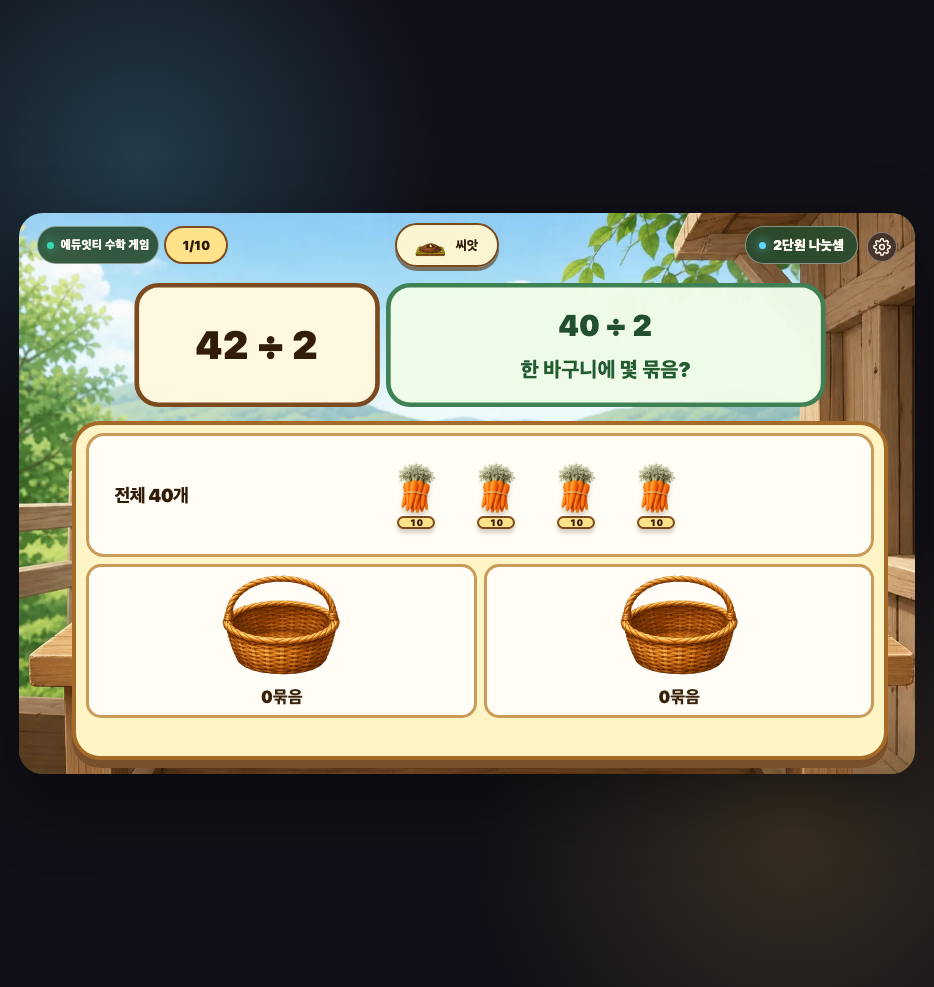
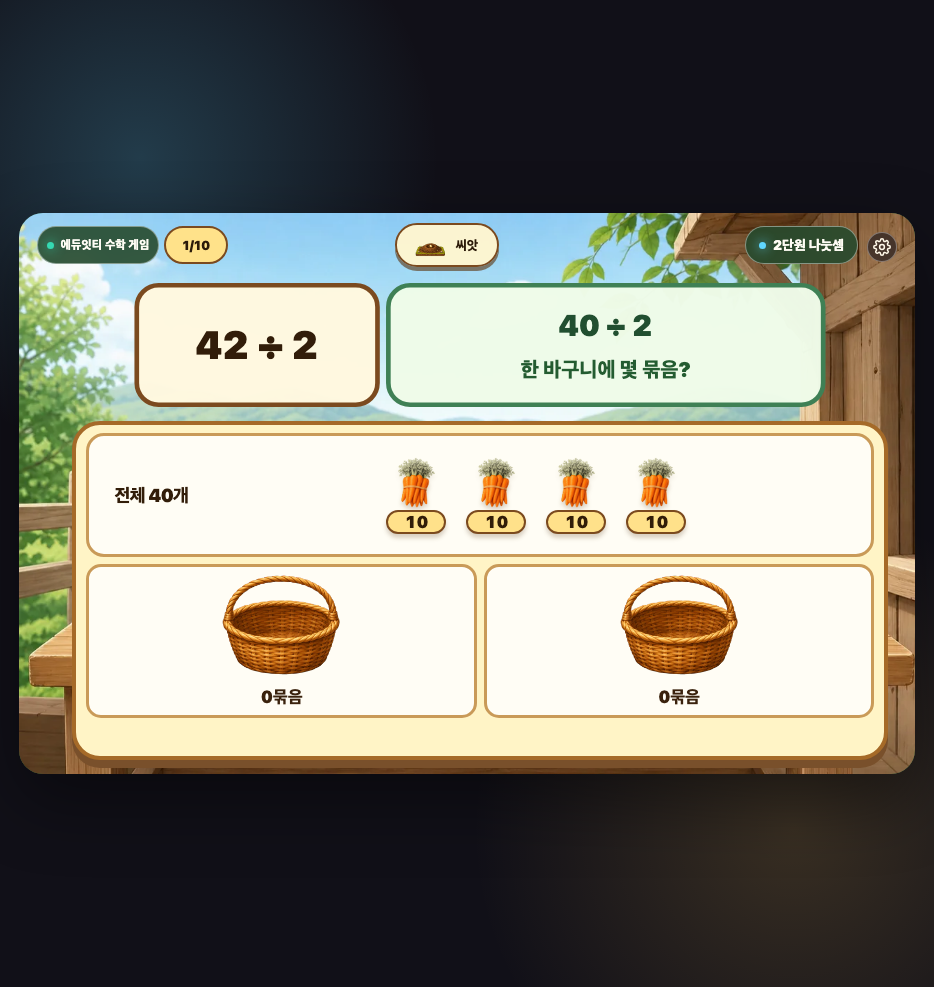
fix(mathmon): enlarge carrot bundle value labels

Changed region(s): [[0.4036, 0.4559, 0.7452, 0.5471]]

diff --git a/3-2-2-1-mathmon-divide-farm/index.html b/3-2-2-1-mathmon-divide-farm/index.html
@@ -1174,26 +1174,38 @@
 
     .game[data-workbench-type="place-value-farm"] .farm-share-source[data-unit-kind="bundle"]:is([data-unit-count="1"], [data-unit-count="2"], [data-unit-count="3"]) {
       --source-bundle-width: 112px;
-      --source-bundle-height: 108px;
+      --source-bundle-height: 118px;
       --source-bundle-gap: 24px;
+      --source-bundle-label-width: 64px;
+      --source-bundle-label-height: 26px;
+      --source-bundle-label-font: 1.12rem;
     }
 
     .game[data-workbench-type="place-value-farm"] .farm-share-source[data-unit-kind="bundle"]:is([data-unit-count="4"], [data-unit-count="5"]) {
       --source-bundle-width: 92px;
-      --source-bundle-height: 90px;
+      --source-bundle-height: 100px;
       --source-bundle-gap: 16px;
+      --source-bundle-label-width: 60px;
+      --source-bundle-label-height: 24px;
+      --source-bundle-label-font: 1.05rem;
     }
 
     .game[data-workbench-type="place-value-farm"] .farm-share-source[data-unit-kind="bundle"]:is([data-unit-count="6"], [data-unit-count="7"]) {
       --source-bundle-width: 76px;
-      --source-bundle-height: 74px;
+      --source-bundle-height: 84px;
       --source-bundle-gap: 10px;
+      --source-bundle-label-width: 56px;
+      --source-bundle-label-height: 23px;
+      --source-bundle-label-font: 1rem;
     }
 
     .game[data-workbench-type="place-value-farm"] .farm-share-source[data-unit-kind="bundle"]:is([data-unit-count="8"], [data-unit-count="9"], [data-unit-count="10"]) {
       --source-bundle-width: 62px;
-      --source-bundle-height: 61px;
+      --source-bundle-height: 75px;
       --source-bundle-gap: 6px;
+      --source-bundle-label-width: 52px;
+      --source-bundle-label-height: 22px;
+      --source-bundle-label-font: .95rem;
     }
 
     @media (max-width: 1100px) {
@@ -1208,25 +1220,25 @@
 
       .game[data-workbench-type="place-value-farm"] .farm-share-source[data-unit-kind="bundle"]:is([data-unit-count="1"], [data-unit-count="2"], [data-unit-count="3"]) {
         --source-bundle-width: 84px;
-        --source-bundle-height: 82px;
+        --source-bundle-height: 92px;
         --source-bundle-gap: 16px;
       }
 
       .game[data-workbench-type="place-value-farm"] .farm-share-source[data-unit-kind="bundle"]:is([data-unit-count="4"], [data-unit-count="5"]) {
         --source-bundle-width: 70px;
-        --source-bundle-height: 68px;
+        --source-bundle-height: 78px;
         --source-bundle-gap: 10px;
       }
 
       .game[data-workbench-type="place-value-farm"] .farm-share-source[data-unit-kind="bundle"]:is([data-unit-count="6"], [data-unit-count="7"]) {
         --source-bundle-width: 60px;
-        --source-bundle-height: 59px;
+        --source-bundle-height: 68px;
         --source-bundle-gap: 6px;
       }
 
       .game[data-workbench-type="place-value-farm"] .farm-share-source[data-unit-kind="bundle"]:is([data-unit-count="8"], [data-unit-count="9"], [data-unit-count="10"]) {
         --source-bundle-width: 52px;
-        --source-bundle-height: 51px;
+        --source-bundle-height: 62px;
         --source-bundle-gap: 4px;
       }
     }
@@ -2004,7 +2016,7 @@
     }
     .farm-produce-piece--bundle {
       width: 66px; height: 78px; color: #3b230b;
-      grid-template-rows: minmax(0, 1fr) 13px;
+      grid-template-rows: minmax(0, 1fr) 18px;
       align-items: stretch;
     }
     .farm-produce-art { width: 100%; height: 100%; display: block; object-fit: contain; pointer-events: none; user-select: none; }
@@ -2016,9 +2028,9 @@
     }
     .farm-produce-piece--bundle .farm-produce-value {
       position: static; grid-row: 2; justify-self: center; align-self: stretch; transform: none;
-      width: min(100%, 38px); height: 100%; min-height: 13px; box-sizing: border-box;
+      width: min(100%, 44px); height: 100%; min-height: 18px; box-sizing: border-box;
       border: 2px solid #7b4a1f; border-radius: 999px; color: #321d09; background: #ffe18a;
-      font-size: clamp(.55rem, 1vw, .78rem); line-height: 1; font-variant-numeric: tabular-nums;
+      font-size: clamp(.72rem, .9vw, .85rem); line-height: 1; font-variant-numeric: tabular-nums;
     }
     .farm-stock-token .farm-produce-piece--bundle { width: 50px; height: 44px; }
     .farm-produce-piece--single {
@@ -3473,6 +3485,16 @@
       overflow: hidden;
     }
     .game[data-workbench-type="place-value-farm"] .farm-share-source-pieces .farm-produce-piece--bundle { width: 72px; height: 70px; }
+    .game[data-workbench-type="place-value-farm"] .farm-share-source[data-unit-kind="bundle"] .farm-produce-piece--bundle {
+      height: var(--source-bundle-height, 75px);
+      grid-template-rows: minmax(0, 1fr) var(--source-bundle-label-height, 22px);
+    }
+    .game[data-workbench-type="place-value-farm"] .farm-share-source-pieces .farm-produce-piece--bundle .farm-produce-value {
+      width: min(100%, var(--source-bundle-label-width, 52px));
+      min-height: var(--source-bundle-label-height, 22px);
+      padding-inline: 4px;
+      font-size: var(--source-bundle-label-font, .95rem);
+    }
     .game[data-workbench-type="place-value-farm"] .farm-share-source-pieces .farm-produce-piece--single {
       width: 38px;
       height: 72px;

diff --git a/_lessons/3-2-2-1-mathmon-divide-farm/lesson.css b/_lessons/3-2-2-1-mathmon-divide-farm/lesson.css
@@ -249,26 +249,38 @@
 
 .game[data-workbench-type="place-value-farm"] .farm-share-source[data-unit-kind="bundle"]:is([data-unit-count="1"], [data-unit-count="2"], [data-unit-count="3"]) {
   --source-bundle-width: 112px;
-  --source-bundle-height: 108px;
+  --source-bundle-height: 118px;
   --source-bundle-gap: 24px;
+  --source-bundle-label-width: 64px;
+  --source-bundle-label-height: 26px;
+  --source-bundle-label-font: 1.12rem;
 }
 
 .game[data-workbench-type="place-value-farm"] .farm-share-source[data-unit-kind="bundle"]:is([data-unit-count="4"], [data-unit-count="5"]) {
   --source-bundle-width: 92px;
-  --source-bundle-height: 90px;
+  --source-bundle-height: 100px;
   --source-bundle-gap: 16px;
+  --source-bundle-label-width: 60px;
+  --source-bundle-label-height: 24px;
+  --source-bundle-label-font: 1.05rem;
 }
 
 .game[data-workbench-type="place-value-farm"] .farm-share-source[data-unit-kind="bundle"]:is([data-unit-count="6"], [data-unit-count="7"]) {
   --source-bundle-width: 76px;
-  --source-bundle-height: 74px;
+  --source-bundle-height: 84px;
   --source-bundle-gap: 10px;
+  --source-bundle-label-width: 56px;
+  --source-bundle-label-height: 23px;
+  --source-bundle-label-font: 1rem;
 }
 
 .game[data-workbench-type="place-value-farm"] .farm-share-source[data-unit-kind="bundle"]:is([data-unit-count="8"], [data-unit-count="9"], [data-unit-count="10"]) {
   --source-bundle-width: 62px;
-  --source-bundle-height: 61px;
+  --source-bundle-height: 75px;
   --source-bundle-gap: 6px;
+  --source-bundle-label-width: 52px;
+  --source-bundle-label-height: 22px;
+  --source-bundle-label-font: .95rem;
 }
 
 @media (max-width: 1100px) {
@@ -283,25 +295,25 @@
 
   .game[data-workbench-type="place-value-farm"] .farm-share-source[data-unit-kind="bundle"]:is([data-unit-count="1"], [data-unit-count="2"], [data-unit-count="3"]) {
     --source-bundle-width: 84px;
-    --source-bundle-height: 82px;
+    --source-bundle-height: 92px;
     --source-bundle-gap: 16px;
   }
 
   .game[data-workbench-type="place-value-farm"] .farm-share-source[data-unit-kind="bundle"]:is([data-unit-count="4"], [data-unit-count="5"]) {
     --source-bundle-width: 70px;
-    --source-bundle-height: 68px;
+    --source-bundle-height: 78px;
     --source-bundle-gap: 10px;
   }
 
   .game[data-workbench-type="place-value-farm"] .farm-share-source[data-unit-kind="bundle"]:is([data-unit-count="6"], [data-unit-count="7"]) {
     --source-bundle-width: 60px;
-    --source-bundle-height: 59px;
+    --source-bundle-height: 68px;
     --source-bundle-gap: 6px;
   }
 
   .game[data-workbench-type="place-value-farm"] .farm-share-source[data-unit-kind="bundle"]:is([data-unit-count="8"], [data-unit-count="9"], [data-unit-count="10"]) {
     --source-bundle-width: 52px;
-    --source-bundle-height: 51px;
+    --source-bundle-height: 62px;
     --source-bundle-gap: 4px;
   }
 }
@@ -1079,7 +1091,7 @@
 }
 .farm-produce-piece--bundle {
   width: 66px; height: 78px; color: #3b230b;
-  grid-template-rows: minmax(0, 1fr) 13px;
+  grid-template-rows: minmax(0, 1fr) 18px;
   align-items: stretch;
 }
 .farm-produce-art { width: 100%; height: 100%; display: block; object-fit: contain; pointer-events: none; user-select: none; }
@@ -1091,9 +1103,9 @@
 }
 .farm-produce-piece--bundle .farm-produce-value {
   position: static; grid-row: 2; justify-self: center; align-self: stretch; transform: none;
-  width: min(100%, 38px); height: 100%; min-height: 13px; box-sizing: border-box;
+  width: min(100%, 44px); height: 100%; min-height: 18px; box-sizing: border-box;
   border: 2px solid #7b4a1f; border-radius: 999px; color: #321d09; background: #ffe18a;
-  font-size: clamp(.55rem, 1vw, .78rem); line-height: 1; font-variant-numeric: tabular-nums;
+  font-size: clamp(.72rem, .9vw, .85rem); line-height: 1; font-variant-numeric: tabular-nums;
 }
 .farm-stock-token .farm-produce-piece--bundle { width: 50px; height: 44px; }
 .farm-produce-piece--single {
@@ -2548,6 +2560,16 @@
   overflow: hidden;
 }
 .game[data-workbench-type="place-value-farm"] .farm-share-source-pieces .farm-produce-piece--bundle { width: 72px; height: 70px; }
+.game[data-workbench-type="place-value-farm"] .farm-share-source[data-unit-kind="bundle"] .farm-produce-piece--bundle {
+  height: var(--source-bundle-height, 75px);
+  grid-template-rows: minmax(0, 1fr) var(--source-bundle-label-height, 22px);
+}
+.game[data-workbench-type="place-value-farm"] .farm-share-source-pieces .farm-produce-piece--bundle .farm-produce-value {
+  width: min(100%, var(--source-bundle-label-width, 52px));
+  min-height: var(--source-bundle-label-height, 22px);
+  padding-inline: 4px;
+  font-size: var(--source-bundle-label-font, .95rem);
+}
 .game[data-workbench-type="place-value-farm"] .farm-share-source-pieces .farm-produce-piece--single {
   width: 38px;
   height: 72px;

diff --git a/3-2-2-1-mathmon-divide-farm/REPORT.md b/3-2-2-1-mathmon-divide-farm/REPORT.md
@@ -155,6 +155,7 @@
 - 추가 수정 이력: `918×897`에서 선택지 카드와 하단 피드백이 5px 겹치던 문제를 발견해 선택지·피드백 행을 재배분하고 다시 검사했습니다.
 - 당근·여우 회귀: `934×987`, DPR 2에서 여우 반응 이미지가 첫 바구니와 가로 84px·세로 128px 겹치던 상태를 기록했습니다. 풀이 화면의 여우 반응 레이어를 숨기고, 낱개 당근 영역에 안쪽 여백과 잘림 경계를 두어 당근 끝이 원본 카드 테두리에 닿지 않게 고쳤습니다.
 - 최대 묶음 회귀: seed `8`, `99 ÷ 3`의 `90`을 10개 묶음 이미지 9개로 생략 없이 표시하고, 이미지 사이 겹침 `0px`을 확인했습니다.
+- 묶음 숫자표 회귀: 당근 아래 `10` 표를 묶음 수에 따라 4단계로 조절합니다. 표 높이는 `22~26px`, 글자 크기는 `15.2~17.92px`이며, 모든 문제 화면에서 `scrollHeight <= clientHeight`, 원본 카드 밖 이탈 `0px`, 묶음 사이 겹침 `0px`을 자동 검사합니다.
 - 완료 단계 간격 회귀: `묶음 나누기`와 `낱개 나누기`를 각각 해당 식과 같은 행에 둡니다. 라벨과 식 사이 실제 간격을 `8~24px`, 세로 중심 차이를 `3px` 이하로 자동 검사해 단계 이름이 다시 멀어지지 않게 했습니다.
 - 문제 핵심 패널은 현재 Stage 폭의 65% 이상이며, 드래그 당근과 바구니의 실제 터치 영역은 42×42px 이상입니다.
 - 십의 자리와 낱개 정답 확인은 모두 자동 타이머 대신 확인 카드 아래 버튼으로 넘어갑니다. 십의 자리 뒤에는 `하나씩 나누기`, 낱개 뒤에는 `나눈 값 더하기`가 보입니다. 생성 버튼의 표시 폭은 `1280×800`에서 `240px`, 작은 Stage에서 `210px`이며, 버튼 아트와 HTML hitbox가 같은 비율과 rect를 사용합니다. 각 확인 화면은 버튼을 누를 때만 다음 상태로 이동합니다.
